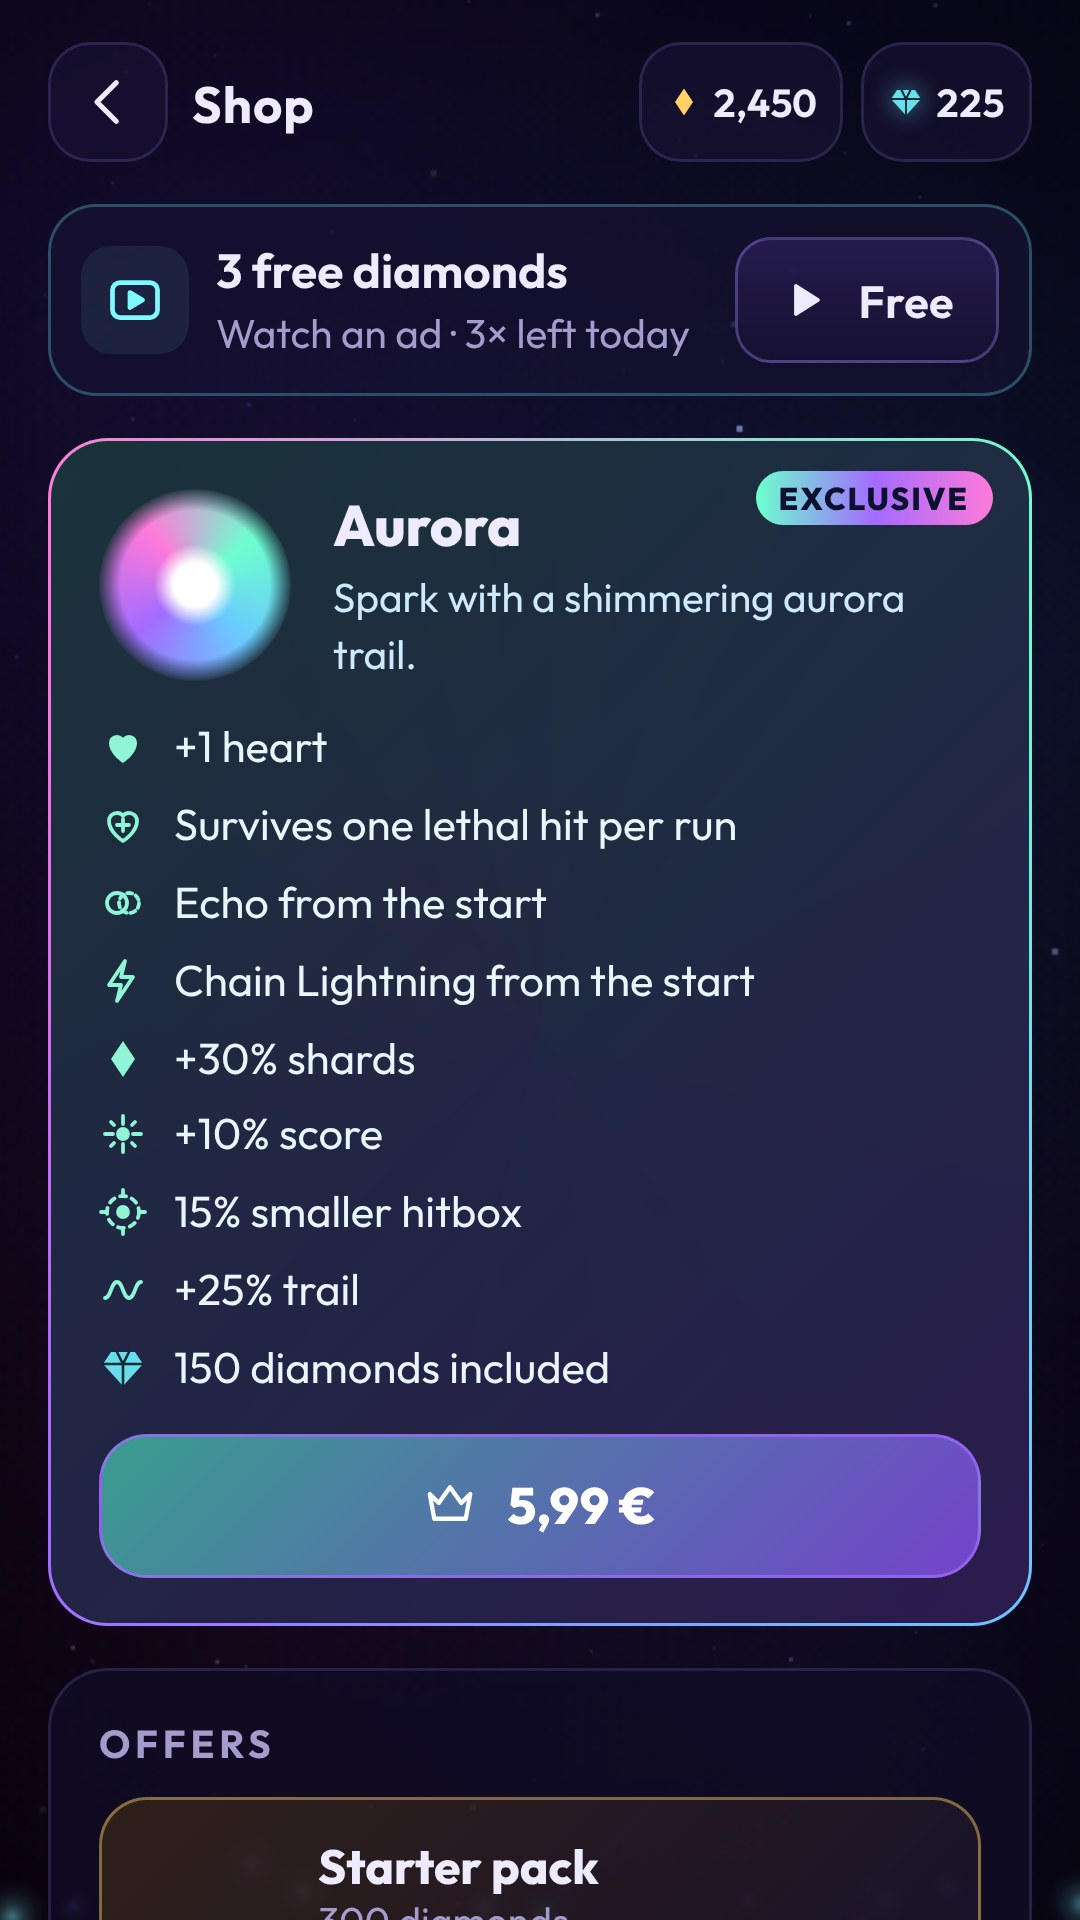
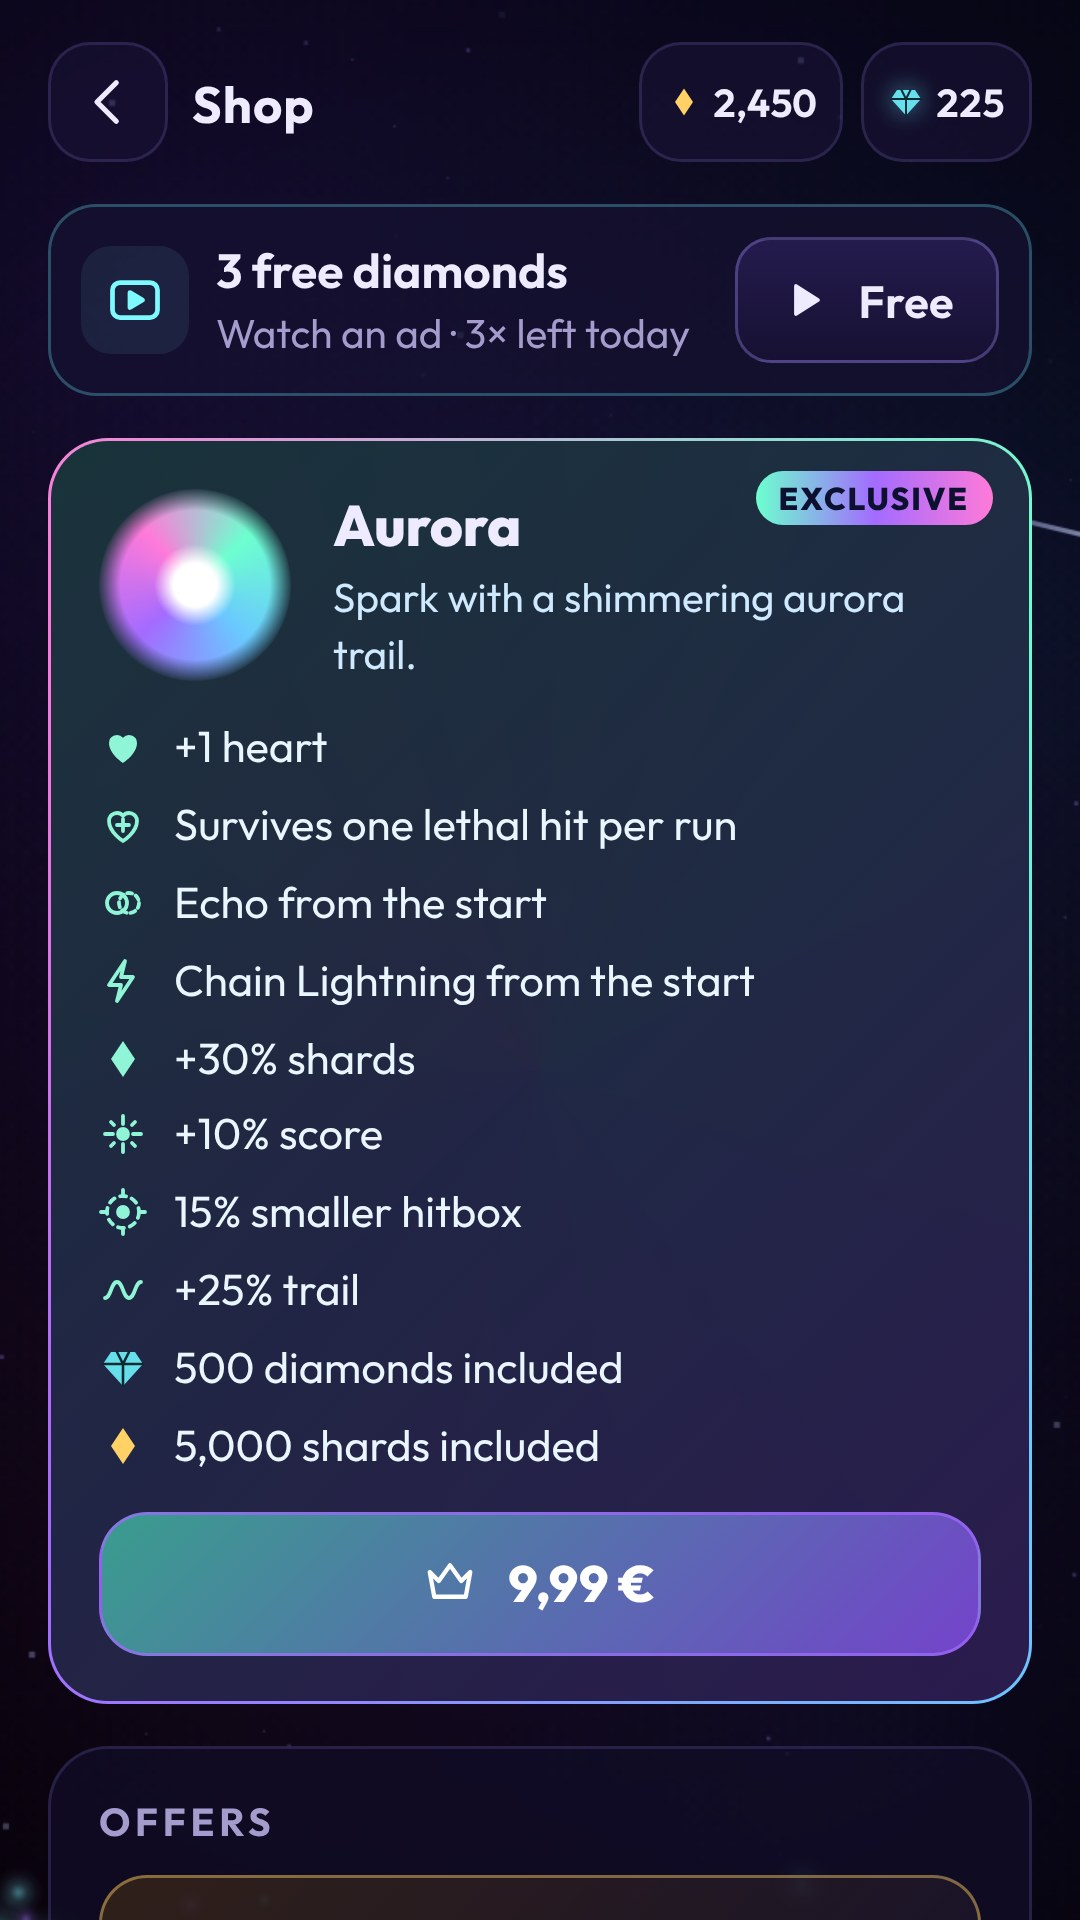
Aurora: 9,99 € value pack instead of 5,99 €
The strongest spark now sells as a value pack like the big games do:
Aurora + 500 diamonds + 5.000 shards for 9,99 € (one of the standard
price tiers). The shop card lists the included currency; store docs
updated with the new price for the Play Console product.

Claude-Session: https://claude.ai/code/session_01AnEEN7zRrcmPaJDimgPqJJ

diff --git a/src/ui/ui.ts b/src/ui/ui.ts
@@ -591,9 +591,10 @@ export class UI {
 
   /** Featured store spark: shows what it does, what is included and the price. */
   private exclusiveOffer(): string {
-    const gems = getProduct('spark_aurora').reward.diamonds ?? 0;
+    const { diamonds = 0, coins = 0 } = getProduct('spark_aurora').reward;
     const perks = this.sparkPerks('aurora').map((p) => `<li>${icon(p.ico, 16)}<span>${esc(p.text)}</span></li>`);
-    if (gems) perks.push(`<li class="bonus">${icon('gem', 16)}<span>${esc(t('perk.diamonds', { n: gems }))}</span></li>`);
+    if (diamonds) perks.push(`<li class="bonus">${icon('gem', 16)}<span>${esc(t('perk.diamonds', { n: fmt(diamonds) }))}</span></li>`);
+    if (coins) perks.push(`<li class="bonus coins">${icon('shard', 16)}<span>${esc(t('perk.coins', { n: fmt(coins) }))}</span></li>`);
     return `<div class="panel exclusive-offer">
       <span class="tag">${t('sparks.exclusive')}</span>
       <div class="row">${orb('aurora', true)}

diff --git a/src/economy/defs.ts b/src/economy/defs.ts
@@ -74,7 +74,7 @@ export const PRODUCTS: ProductDef[] = [
   { id: 'starter_pack', consumable: false, reward: { diamonds: 300, coins: 3000 }, unlocks: 'nova', fallbackPrice: '2,99 €' },
   { id: 'no_ads', consumable: false, reward: { diamonds: 100 }, fallbackPrice: '3,99 €' },
   /** Store-exclusive spark – real money only, never for shards or diamonds. */
-  { id: 'spark_aurora', consumable: false, reward: { diamonds: 150 }, unlocks: 'aurora', fallbackPrice: '5,99 €' },
+  { id: 'spark_aurora', consumable: false, reward: { diamonds: 500, coins: 5000 }, unlocks: 'aurora', fallbackPrice: '9,99 €' },
 ];
 
 export const getProduct = (id: ProductId): ProductDef => PRODUCTS.find((p) => p.id === id)!;

diff --git a/src/core/i18n.ts b/src/core/i18n.ts
@@ -533,6 +533,7 @@ const de = {
   'perk.trailMinus': '{n} % kürzere Spur',
   'perk.trailLifeMinus': 'Spur verblasst {n} % schneller',
   'over.levelUps': 'Stufe {a} bis {b} erreicht!',
+  'perk.coins': '{n} Splitter dazu',
 } as const;
 
 export type I18nKey = keyof typeof de;
@@ -1070,6 +1071,7 @@ const en: Record<I18nKey, string> = {
   'perk.trailMinus': '{n}% shorter trail',
   'perk.trailLifeMinus': 'Trail fades {n}% faster',
   'over.levelUps': 'Reached levels {a} to {b}!',
+  'perk.coins': '{n} shards included',
 
 };
 

diff --git a/src/ui/styles.css b/src/ui/styles.css
@@ -2757,6 +2757,10 @@ button.level-chip:active b {
   color: var(--gem);
 }
 
+.exclusive-offer .perks li.bonus.coins .ico {
+  color: var(--gold);
+}
+
 /* ───────────── Layout rhythm: one bar height, one gap, aligned columns ───────────── */
 
 :root {

diff --git a/docs/PLAY_STORE_PLAN.md b/docs/PLAY_STORE_PLAN.md
@@ -58,7 +58,7 @@ das Angebot am attraktivsten.
 | `diamonds_6000` | Verbrauchbar | 6.000 Diamanten (+50 %) · *Bester Wert* | 49,99 € |
 | `starter_pack` | Einmalig | 300 Diamanten + 3.000 Splitter + Funke **Nova** | 2,99 € |
 | `no_ads` | Einmalig | Keine Interstitials + 100 Diamanten Bonus | 3,99 € |
-| `spark_aurora` | Einmalig | Exklusiver Funke **Polarlicht** (nur für Echtgeld, nicht mit Diamanten) + 150 Diamanten | 5,99 € |
+| `spark_aurora` | Einmalig | Funke **Polarlicht** (nur für Echtgeld) + 500 Diamanten + 5.000 Splitter | 9,99 € |
 
 Preise werden in der Play Console festgelegt; die App zeigt den **lokalisierten Preis aus Google Play** an.
 

diff --git a/docs/PLAY_CONSOLE_CHECKLIST.md b/docs/PLAY_CONSOLE_CHECKLIST.md
@@ -37,7 +37,7 @@ Technische Details zum Bauen und Signieren: [`android/README.md`](../android/REA
 | `diamonds_6000` | verbrauchbar | 49,99 € |
 | `starter_pack` | einmalig | 2,99 € |
 | `no_ads` | einmalig | 3,99 € |
-| `spark_aurora` | einmalig | 5,99 € (exklusiver Funke Polarlicht + 150 Diamanten, ab Version 2.1.0) |
+| `spark_aurora` | einmalig | 9,99 € (Funke Polarlicht + 500 Diamanten + 5.000 Splitter, ab Version 2.1.0) |
 
 > In Google Play sind alle sieben „In-App-Produkte“ (keine Abos). Ob ein Kauf verbraucht wird, entscheidet die App.
 
